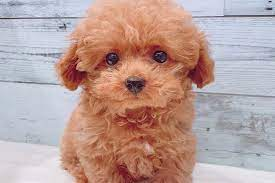
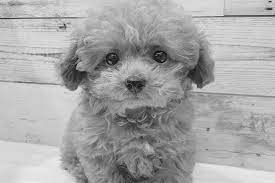
Grayscale書きました

diff --git a/Grayscale.py b/Grayscale.py
@@ -1,0 +1,16 @@
+import cv2
+
+# グレースケール化
+# 画像読み込み
+img = cv2.imread('images/upload/Sample-image.jpeg')
+# 読み込んだ画像グレースケール化
+img_gray = cv2.cvtColor(img, cv2.COLOR_BGR2GRAY)
+# 画像保存
+cv2.imwrite('images/result/grayscale-fillter/Sample-image.jpeg', img_gray)
+
+# # 二値化
+# img2 = cv2.imread('images/upload/Sample-image.jpeg',0)
+# threshold = 100
+# # 二値化(閾値100超えた画素を255)
+# ret, img_thresh = cv2.threshold(img2, threshold, 255, cv2.THRESH_BINARY)
+# cv2.imwrite('images/result/grayscale-fillter/Niti_Sample-image.jpeg', img_thresh)
